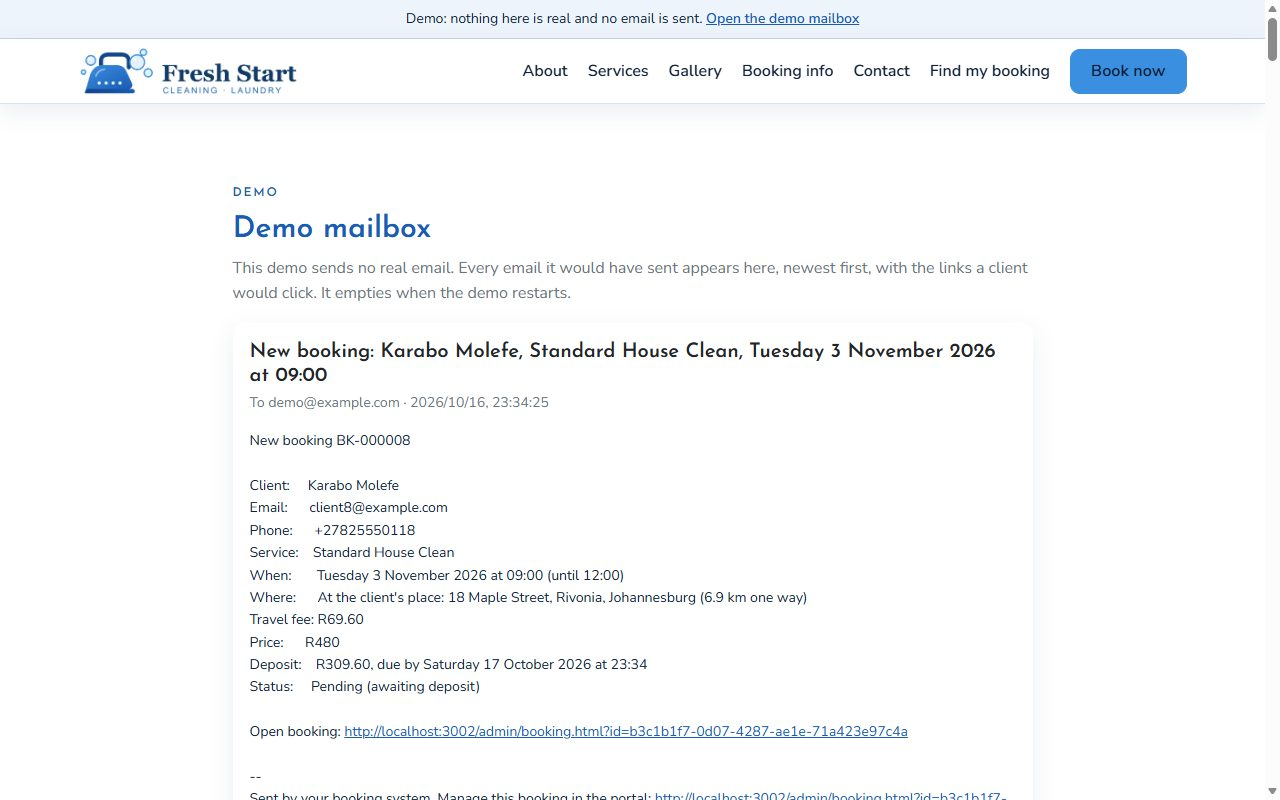
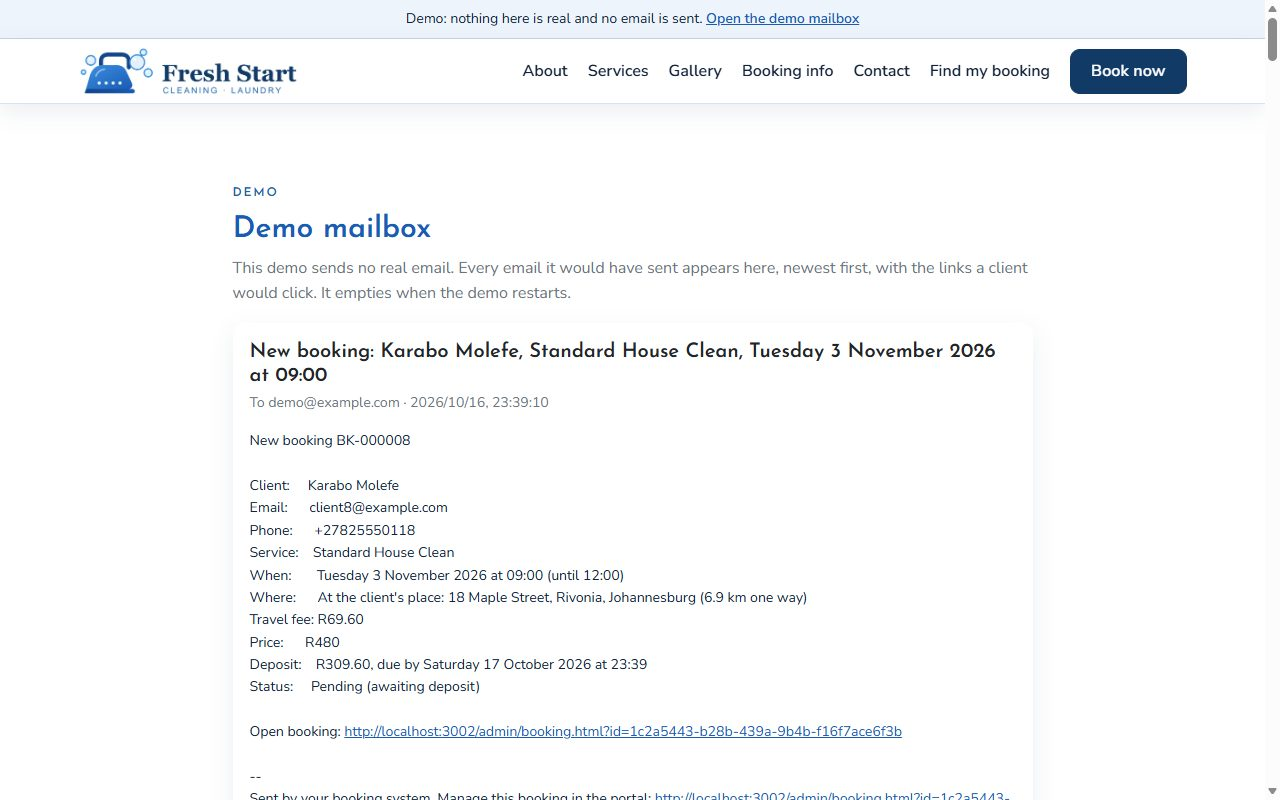
Book now goes back to deep navy, with white text (#176)

Changed region(s): [[0.8125, 0.0625, 0.9375, 0.125], [0.5, 0.9062, 0.7188, 0.9375], [0.75, 0.9688, 0.7812, 1.0]]

diff --git a/docs/style-guide/index.html b/docs/style-guide/index.html
@@ -52,10 +52,10 @@
       <div class="mbg-container">
         <p class="mbg-label mb-1">1</p>
         <h2>Colours</h2>
-        <p class="mbg-readable">A calm blue with a bright blue action colour. Change any value in <code>public/css/theme.css</code> to re-colour the whole site. One bright colour leads each section; photos sit on white or a light tint; bright blue means "book"; statuses never rely on colour alone. Contrast is against white unless noted; WCAG AA needs 4.5:1 for normal text.</p>
+        <p class="mbg-readable">A calm blue with a deep navy action colour. Change any value in <code>public/css/theme.css</code> to re-colour the whole site. One bright colour leads each section; photos sit on white or a light tint; deep navy means "book"; statuses never rely on colour alone. Contrast is against white unless noted; WCAG AA needs 4.5:1 for normal text.</p>
         <div class="row g-3">
           <div class="col-6 col-md-4 col-lg-3"><div class="sg-swatch"><div class="chip" style="background:#1A5BB5;color:#fff">Primary</div><div class="info"><code>#1A5BB5</code> · primary<br>Buttons, links, headings<br>White text on it 6.6:1</div></div></div>
-          <div class="col-6 col-md-4 col-lg-3"><div class="sg-swatch"><div class="chip" style="background:#3B8FE0;color:#071A30">Action</div><div class="info"><code>#3B8FE0</code> · action<br>Book now only<br>Text <code>#071A30</code> on it 5.2:1</div></div></div>
+          <div class="col-6 col-md-4 col-lg-3"><div class="sg-swatch"><div class="chip" style="background:#123A66;color:#FFFFFF">Action</div><div class="info"><code>#123A66</code> · action<br>Book now only<br>White text on it 11.5:1</div></div></div>
           <div class="col-6 col-md-4 col-lg-3"><div class="sg-swatch"><div class="chip" style="background:#3B8FE0;color:#fff;font-size:1.25rem">Accent</div><div class="info"><code>#3B8FE0</code> · bright<br>Large headings, flourishes, decoration<br><strong>Never small text</strong> (3.4:1)</div></div></div>
           <div class="col-6 col-md-4 col-lg-3"><div class="sg-swatch"><div class="chip" style="background:#1E63A8;color:#fff">Accent text</div><div class="info"><code>#1E63A8</code><br>Small accent text: prices, labels<br>6.2:1</div></div></div>
           <div class="col-6 col-md-4 col-lg-3"><div class="sg-swatch"><div class="chip" style="background:#F2C94C;color:#12233A">Gold</div><div class="info"><code>#F2C94C</code><br>Stars, highlights<br>Decoration only</div></div></div>
@@ -118,7 +118,7 @@
         <table class="table table-sm small mt-3 mb-0">
           <thead><tr><th>Button</th><th>Use</th><th>Colours</th></tr></thead>
           <tbody>
-            <tr><td><code>.btn-book</code></td><td>Book now and the booking steps</td><td>Bright blue, dark text, rounded corners; the hero one has a sparkle and an arrow</td></tr>
+            <tr><td><code>.btn-book</code></td><td>Book now and the booking steps</td><td>Deep navy, white text, rounded corners; the hero one has a sparkle and an arrow</td></tr>
             <tr><td><code>.btn-primary</code></td><td>The main action of a page or dialog</td><td>Primary blue, white text</td></tr>
             <tr><td><code>.btn-outline-primary</code></td><td>Secondary actions</td><td>Primary outline</td></tr>
           </tbody>

diff --git a/src/notifications/payment-instructions.template.ts b/src/notifications/payment-instructions.template.ts
@@ -119,7 +119,7 @@ export function renderPaymentInstructions(
 <table role="presentation" style="border-collapse:collapse;margin:0 0 8px">${rows(bank)}</table>
 <p>Please use <strong>${escapeHtml(d.reference)}</strong> as your payment reference so I can match your payment.</p>
 <h2 style="${heading}">2. Upload your proof of payment</h2>
-<p><a href="${escapeHtml(d.link)}" style="display:inline-block;background:#3B8FE0;color:#071A30;text-decoration:none;font-weight:bold;padding:12px 20px;border-radius:6px">Upload proof of payment</a></p>
+<p><a href="${escapeHtml(d.link)}" style="display:inline-block;background:#123A66;color:#FFFFFF;text-decoration:none;font-weight:bold;padding:12px 20px;border-radius:6px">Upload proof of payment</a></p>
 <p>This is your private booking link. Keep this email: you can also use the link to cancel if your plans change. Please don't share it.</p>
 <h2 style="${heading}">3. I'll confirm your booking</h2>
 <p>I'll confirm your booking by email as soon as the money reflects in my account.</p>

diff --git a/src/notifications/email-layout.ts b/src/notifications/email-layout.ts
@@ -18,7 +18,7 @@ export interface Business {
 
 const INK = '#2A1A26';
 const MAGENTA = '#A02080';
-const ACTION = '#3B8FE0';
+const ACTION = '#123A66';
 
 function textOf(block: Block): string {
   if ('p' in block) return block.p;
@@ -38,7 +38,7 @@ function htmlOf(block: Block): string {
     return `<p style="border-left:4px solid ${MAGENTA};padding:8px 12px;background:#faf2f8"><strong>${escapeHtml(block.callout)}</strong></p>`;
   }
   if ('button' in block) {
-    return `<p><a href="${escapeHtml(block.button.url)}" style="display:inline-block;background:${ACTION};color:#071A30;text-decoration:none;font-weight:bold;padding:12px 20px;border-radius:6px">${escapeHtml(block.button.label)}</a></p>`;
+    return `<p><a href="${escapeHtml(block.button.url)}" style="display:inline-block;background:${ACTION};color:#FFFFFF;text-decoration:none;font-weight:bold;padding:12px 20px;border-radius:6px">${escapeHtml(block.button.label)}</a></p>`;
   }
   const rows = block.rows
     .map(

diff --git a/public/css/theme.css b/public/css/theme.css
@@ -17,9 +17,9 @@
   --mbg-primary-rgb: 26, 91, 181;
   --mbg-primary-dark: #134689;   /* primary hover */
   --mbg-primary-dark-rgb: 19, 70, 137;
-  --mbg-action: #3B8FE0;         /* action: Book now only (the bright accent blue; dark text, white would be too faint) */
-  --mbg-action-dark: #5AA3EC;    /* action hover (lighter, so the dark text stays easy to read) */
-  --mbg-on-action: #071A30;      /* text on the action colour */
+  --mbg-action: #123A66;         /* action: Book now only (deep navy, the strongest thing on the page) */
+  --mbg-action-dark: #0A2646;    /* action hover */
+  --mbg-on-action: #FFFFFF;      /* text on the action colour */
   --mbg-accent-rgb: 59, 143, 224;
   --mbg-accent: #3B8FE0;         /* large headings, flourishes, decoration; never small text */
   --mbg-accent-text: #1E63A8;    /* small accent text: prices, labels */

diff --git a/src/common/colour-contrast.spec.ts b/src/common/colour-contrast.spec.ts
@@ -71,9 +71,9 @@ describe('text on buttons and badges', () => {
   it.each([
     ['white on a magenta button', '#FFFFFF', 'mbg-primary'],
     ['white on a magenta button, pressed', '#FFFFFF', 'mbg-primary-dark'],
-    ['dark text on the bright blue Book button', 'mbg-on-action', 'mbg-action'],
+    ['white text on the navy Book button', 'mbg-on-action', 'mbg-action'],
     [
-      'dark text on the bright blue Book button, pressed',
+      'white text on the navy Book button, pressed',
       'mbg-on-action',
       'mbg-action-dark',
     ],

diff --git a/docs/style-guide.md b/docs/style-guide.md
@@ -27,18 +27,18 @@ How every page of the booking site looks: colours, type, shapes, components, log
 
 - **The work is the star.** Service photos carry the most colour; the page supports them.
 - **One brand, one file.** Every colour comes from `theme.css`, so a business re-colours the site in one place and the logo it uploads fits.
-- **Booking is always obvious.** Bright blue means "book". There is at most one Book now per view.
+- **Booking is always obvious.** Deep navy means "book". There is at most one Book now per view.
 - **Readable for everyone.** All text meets WCAG 2.2 AA contrast; nothing relies on colour alone.
 
 ## 2. Colours
 
-The default theme is a calm blue with a bright blue action colour, for a home services business. Change any value in `theme.css`; the tests in `src/common/colour-contrast.spec.ts` check every pairing of text and background and fail if a new colour is too faint.
+The default theme is a calm blue with a deep navy action colour, for a home services business. Change any value in `theme.css`; the tests in `src/common/colour-contrast.spec.ts` check every pairing of text and background and fail if a new colour is too faint.
 
 | Role | Name | Hex | Used for | Contrast |
 | --- | --- | --- | --- | --- |
 | Primary | Primary | `#1A5BB5` | Primary buttons, links, headings | White on it 6.6:1 |
 | Primary hover | Primary dark | `#134689` | Hover and pressed states | |
-| Action | Action | `#3B8FE0` | **Book now** and the booking steps only | Text `#071A30` on it 5.2:1 |
+| Action | Action | `#123A66` | **Book now** and the booking steps only | White text on it 11.5:1 |
 | Bright | Accent | `#3B8FE0` | Large headings (24 px and up), decoration, backgrounds | 3.4:1 on white: **never small text** |
 | Accent text | Accent text | `#1E63A8` | Small accent text: prices, section labels | 6.2:1 on white, 5.3:1 on the light blue tint |
 | Highlight | Gold | `#F2C94C` | Stars, highlights | Decoration only |
@@ -96,7 +96,7 @@ All components are Bootstrap 5.3, themed by `tokens.css` and `theme.css`. See th
 
 | Class | Use | Look |
 | --- | --- | --- |
-| `.btn-book` | Book now and the booking steps | Bright blue, dark text, rounded corners; the hero one has a sparkle and an arrow |
+| `.btn-book` | Book now and the booking steps | Deep navy, white text, rounded corners; the hero one has a sparkle and an arrow |
 | `.btn-primary` | The main action of a page or dialog (Confirm payment, Save) | Primary blue, white text |
 | `.btn-outline-primary` | Secondary actions (See gallery, Cancel) | Primary outline |
 | Text link | Inline navigation | Primary colour, underlined on hover |
@@ -143,7 +143,7 @@ Every status has a word, an icon and a distinct shape, so they're distinguishabl
 
 ### Date and time picker
 
-The client booking page uses a Monday-first month calendar (`.mbg-calendar`) of square day buttons (`.mbg-day`, at least 44 px): white with a pale line, primary colour when selected (`.is-selected`, with `aria-pressed`), and faded and not clickable when the date is outside the booking window. Open times are pill-outline buttons (`.mbg-slot`) that fill with the primary colour when chosen (`.active`). The Continue button is the bright blue booking button (`.btn-book`). A day with no times shows the info alert "No times are available on this day. Please choose another date."
+The client booking page uses a Monday-first month calendar (`.mbg-calendar`) of square day buttons (`.mbg-day`, at least 44 px): white with a pale line, primary colour when selected (`.is-selected`, with `aria-pressed`), and faded and not clickable when the date is outside the booking window. Open times are pill-outline buttons (`.mbg-slot`) that fill with the primary colour when chosen (`.active`). The Continue button is the navy booking button (`.btn-book`). A day with no times shows the info alert "No times are available on this day. Please choose another date."
 
 ### Service status
 
@@ -202,7 +202,7 @@ The demo's example business, Fresh Start, has a sample logo of bubbles and an ir
 | Decision | Why |
 | --- | --- |
 | Colours in their own file (`theme.css`) | A business re-colours the site by editing one file, and a private copy of the project can keep its own colours without conflicts when it takes new releases (`BRANDING.md`). |
-| A calm blue with a bright blue action colour | Blue reads as clean and trustworthy for a home services business; the brightest blue marks the Book button, so it is always the easiest thing to find. Every pairing passes WCAG AA. |
+| A calm blue with a deep navy action colour | Blue reads as clean and trustworthy for a home services business; the darkest, strongest blue marks the Book button, so it is always the easiest thing to find. Every pairing passes WCAG AA. |
 | Josefin Sans, Nunito Sans, Alex Brush | Josefin gives headings a friendly geometric look, Nunito keeps details clear, Alex Brush is for rare decoration. |
 | Light mode only | The owner's preference for v1. |
 | Built on Bootstrap 5.3 | Matches the frontend stack in spec section 11; the tokens theme it instead of replacing it. |

diff --git a/docs/emails.md b/docs/emails.md
@@ -21,7 +21,7 @@ The subject, preview text and body of each email the system sends. The notificat
 | --- | --- |
 | Voice | Warm, clear and personal, in the first person, as the owner ("I'll see you on Tuesday"). Short sentences, no jargon. Owner emails are brief and factual. |
 | Sender | From: `{{business.name}} <bookings address>`. Reply-To: `{{business.email}}`, so a client's reply reaches the owner. |
-| Format | HTML following the [style guide](style-guide.md) (logo, white background, blue links, bright blue button for the main action), with a plain-text version of the same words. Width at most 600 px; readable on a phone. |
+| Format | HTML following the [style guide](style-guide.md) (logo, white background, blue links, navy button for the main action), with a plain-text version of the same words. Width at most 600 px; readable on a phone. |
 | Dates and times | Business time zone, written out: "Tuesday 13 October 2026 at 09:00". Times as `HH:mm`. Money as "R325" or "R1,200" (no cents unless there are cents). |
 | Booking link | Appears **only** in an email sent at the moment the link is created: payment instructions, both booking confirmations (a fresh link is issued when payment is confirmed), and a resent link (BR-15). Only the link's hash is stored, so other emails can't include it; they point to the booking details page instead. The link is never shown in owner emails, logs or the notification history. |
 | Personal data | Only what the recipient needs (POPIA). Client emails never show other clients' details; owner emails show the client's name, email and phone. |
